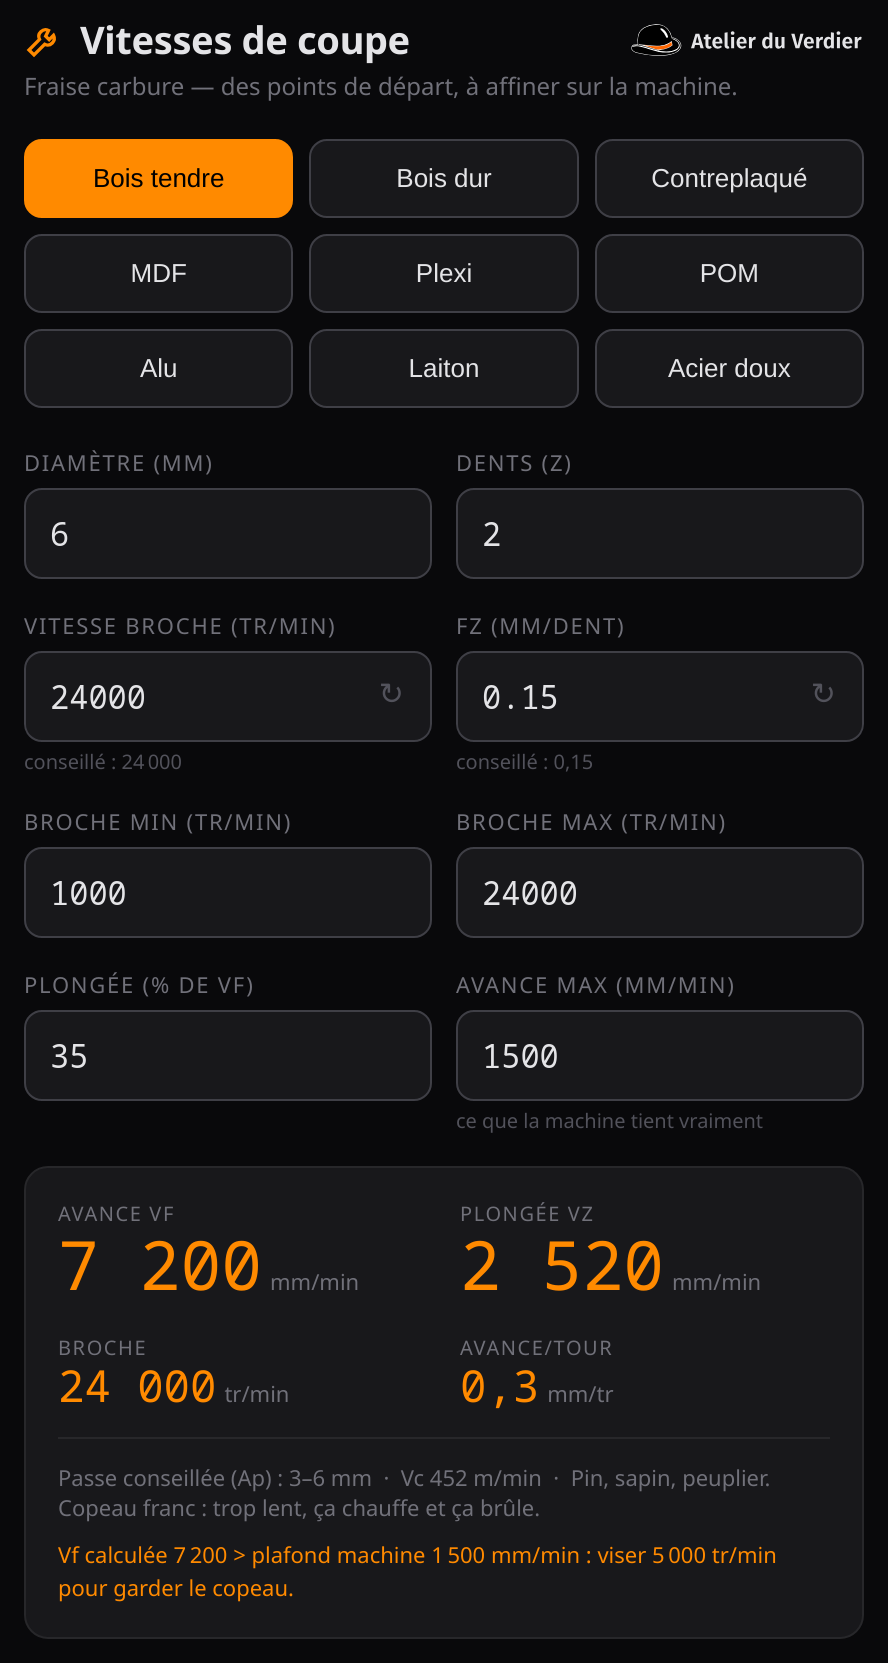
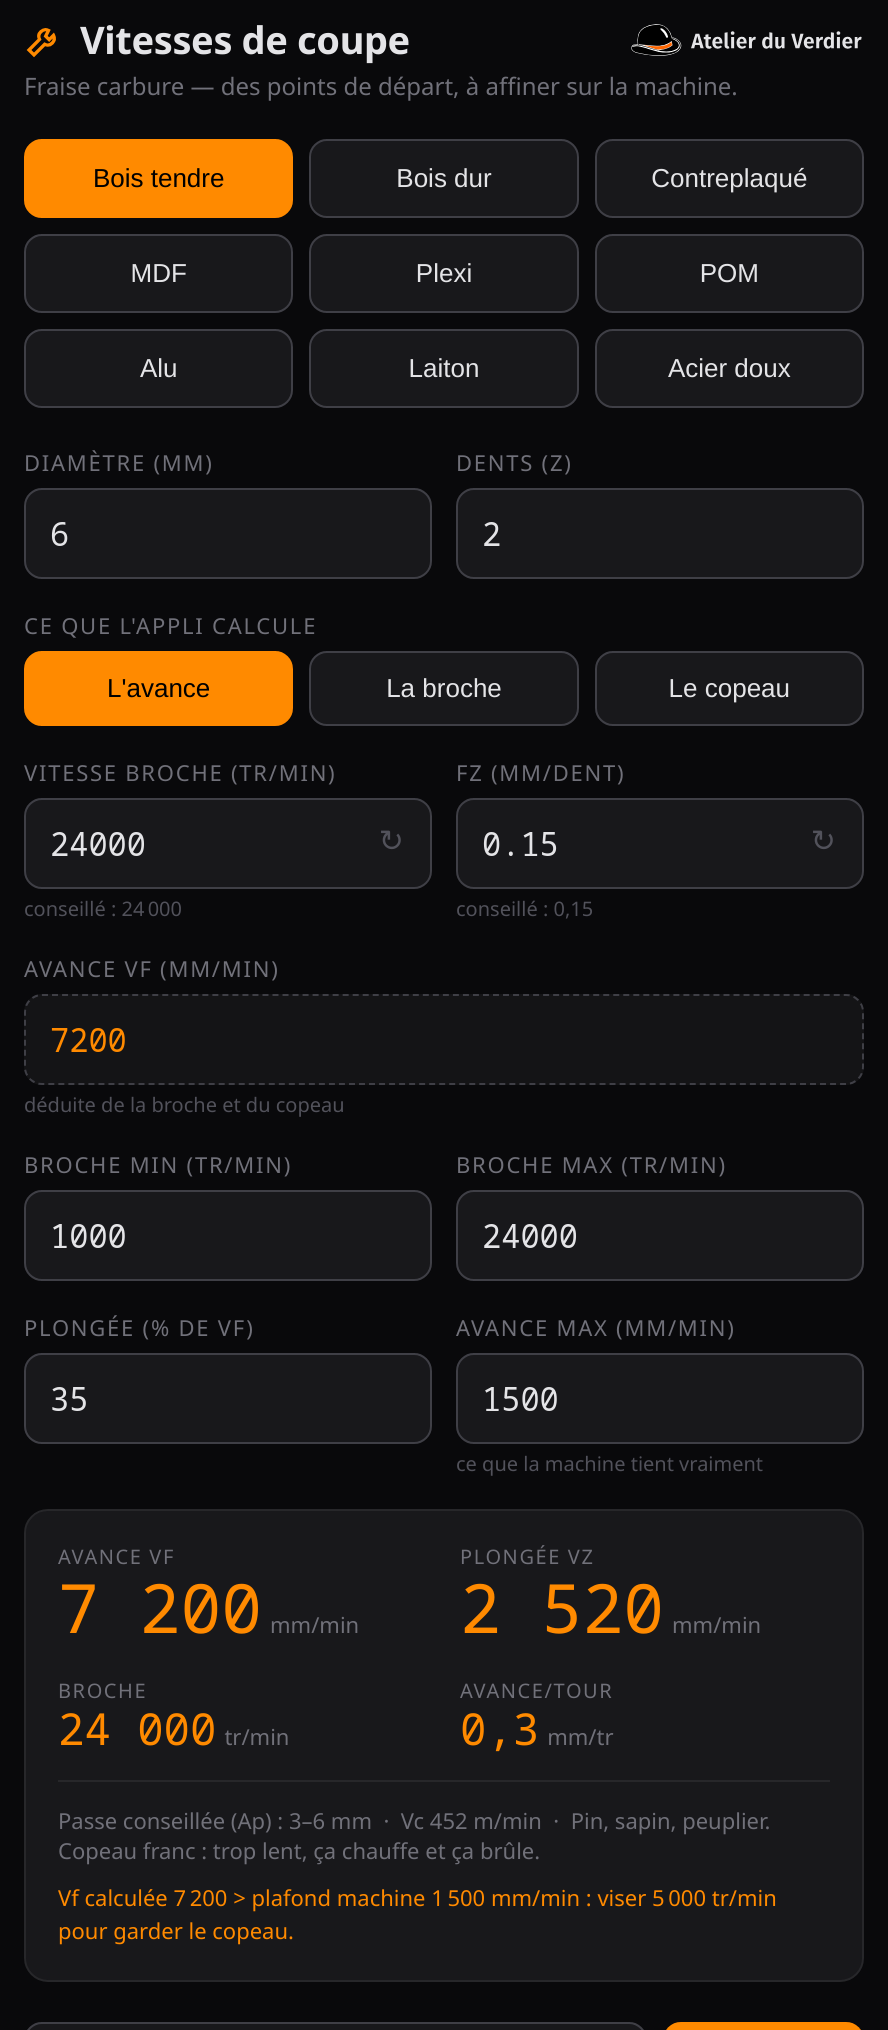
Trois sens de calcul : l'avance, la broche, ou le copeau
Vf = broche x fz x dents. Trois grandeurs, une equation : rien
n'obligeait a toujours deduire la meme. On choisit desormais laquelle
l'appli calcule ; ce champ passe en orange et n'est plus saisissable.

- l'avance  : broche + copeau -> avance    (le cas d'avant)
- la broche : avance + copeau -> broche    (« je veux avancer a 800 »)
- le copeau : avance + broche -> fz        (« mes reglages valent quoi ? »)

Le troisieme est un DIAGNOSTIC et repond a la question posee a l'etabli :
24 000 tr/min a 800 mm/min avec une 3 mm deux dents, c'est 21 % du copeau
utile — la fraise frotte. Verdict affiche en clair, vert quand c'est bon.

Basculer d'un sens a l'autre ne fait bouger aucun chiffre : le champ qui
devient saisissable reprend la valeur qu'il affichait en resultat.

Deux corrections trouvees au test : la broche deduite s'arrondit vers le
BAS (a l'entier superieur l'avance depassait d'un cheveu un plafond regle
pile a cette valeur), et l'alerte « hors limites broche » ne parle plus
que du bornage reel, pas du tour perdu a l'arrondi.

Cache porte a coupe-v6.

diff --git a/site/appli/coupe/index.html b/site/appli/coupe/index.html
@@ -20,7 +20,7 @@
 <style>
   /* Appli d'établi : UN SEUL thème, sombre — elle se lit à côté de la
      machine, souvent en plein soleil d'atelier, et le blanc éblouit. */
-  :root{ --bg:#09090b; --panel:#18181b; --panel2:#27272a; --line:#3f3f46; --txt:#e4e4e7; --dim:#71717a; --dim2:#52525b; --orange:#ff8a00; }
+  :root{ --bg:#09090b; --panel:#18181b; --panel2:#27272a; --line:#3f3f46; --txt:#e4e4e7; --dim:#71717a; --dim2:#52525b; --orange:#ff8a00; --vert:#4ade80; }
   *{box-sizing:border-box; -webkit-tap-highlight-color:transparent;}
   body{margin:0; background:var(--bg); color:var(--txt); font-family:-apple-system,BlinkMacSystemFont,"Segoe UI",Roboto,sans-serif; padding:env(safe-area-inset-top) 0 0;}
   .wrap{max-width:460px; margin:0 auto; padding:22px 16px 48px;}
@@ -37,6 +37,18 @@
   input{width:100%; background:var(--panel); border:1px solid var(--line); border-radius:9px; padding:11px 12px; color:var(--txt); font-size:16px; font-family:ui-monospace,Menlo,monospace;}
   input:focus{outline:none; border-color:var(--orange);}
   .grid2{display:grid; grid-template-columns:1fr 1fr; gap:12px; margin-bottom:16px;}
+  .pleine{margin-bottom:16px;}
+  /* Les trois sens de calcul. Meme grammaire que les matieres : le choix
+     actif est plein orange, on le voit d'un coup d'oeil a l'etabli. */
+  .modes{display:grid; grid-template-columns:1fr 1fr 1fr; gap:8px; margin:0 0 16px;}
+  .mode{padding:10px 2px; border-radius:9px; border:1px solid var(--line); background:var(--panel); color:var(--txt); font-size:13px; font-weight:500;}
+  .mode.on{background:var(--orange); border-color:var(--orange); color:#000;}
+  /* Le champ DEDUIT : ni saisissable, ni gris — c'est un resultat, il porte
+     donc la couleur des resultats. */
+  input.calcule{color:var(--orange); background:#141416; border-style:dashed; border-color:var(--line);}
+  .verdict{margin-top:10px; font-size:11px; line-height:1.5; color:var(--dim);}
+  .verdict b{color:var(--vert);}
+  .verdict.chaud b{color:var(--orange);}
   .mats{display:grid; grid-template-columns:1fr 1fr 1fr; gap:8px; margin-bottom:20px;}
   .mat{padding:11px 2px; border-radius:9px; border:1px solid var(--line); background:var(--panel); color:var(--txt); font-size:13px; font-weight:500;}
   .mat.on{background:var(--orange); border-color:var(--orange); color:#000;}
@@ -102,6 +114,12 @@
     <div><label class="lbl" for="Z">Dents (Z)</label><input id="Z" inputmode="decimal" value="2"></div>
   </div>
 
+  <!-- Broche, copeau et avance sont liés par UNE seule équation,
+       Vf = broche x fz x dents : on en fixe deux, la troisième se déduit.
+       D'où ces trois sens de calcul, plutôt qu'un seul impose. -->
+  <span class="lbl">Ce que l'appli calcule</span>
+  <div class="modes" id="modes"></div>
+
   <div class="grid2">
     <div>
       <label class="lbl" for="rpm">Vitesse broche (tr/min)</label>
@@ -113,6 +131,12 @@
       <div class="fieldwrap"><input id="fz" inputmode="decimal" value="0.15"><button class="reset" data-r="fz" aria-label="Revenir au fz conseillé">&#8635;</button></div>
       <span class="hint" id="hintFz"></span>
     </div>
+  </div>
+
+  <div class="pleine">
+    <label class="lbl" for="vf">Avance Vf (mm/min)</label>
+    <input id="vf" inputmode="decimal" value="7200">
+    <span class="hint" id="hintVf"></span>
   </div>
 
   <div class="grid2">
@@ -136,6 +160,7 @@
       <div class="ro"><div class="k">Avance/tour</div><div class="v"><span id="oFpr">0</span><span class="u">mm/tr</span></div></div>
     </div>
     <div class="foot" id="foot"></div>
+    <div class="verdict" id="verdict" style="display:none"></div>
     <div class="warn" id="warn" style="display:none"></div>
   </div>
 
@@ -210,6 +235,22 @@ var K_TOOLS="fs_tools", K_PREFS="fs_prefs";
 var PREFS_VERSION=2;
 var material="bois_tendre", tools=[];
 
+// --- Les trois sens de calcul -------------------------------------------
+// Vf = broche x fz x dents. Trois grandeurs, une equation : on en saisit
+// deux, la troisieme se deduit. `mode` dit LAQUELLE est deduite.
+//   "vf"  : broche + copeau -> avance        (le cas classique)
+//   "rpm" : avance voulue + copeau -> broche (« je veux avancer a 800 »)
+//   "fz"  : avance + broche -> copeau        (« mes reglages, ils valent quoi ? »)
+var MODES = [
+  {cle:"vf",  label:"L'avance",  champ:"vf"},
+  {cle:"rpm", label:"La broche", champ:"rpm"},
+  {cle:"fz",  label:"Le copeau", champ:"fz"}
+];
+var mode="vf";
+// Les valeurs RESOLUES du dernier calcul : c'est elles qu'on enregistre et
+// qu'on exporte, jamais le contenu brut des champs, dont l'un est deduit.
+var ETAT={d:6,z:2,rpm:24000,fz:0.15,vf:7200,vz:2520,vc:0};
+
 function $(id){return document.getElementById(id);}
 function num(s){var v=parseFloat(String(s).replace(",",".")); return isFinite(v)?v:0;}
 function clamp(v,lo,hi){return Math.min(Math.max(v,lo),hi);}
@@ -252,31 +293,90 @@ function buildMats(){
     m.appendChild(b);
   });
 }
-function applyMat(k){
-  material=k;
+// Poser les valeurs conseillees de la matiere. On ne touche PAS au champ
+// deduit : ce serait ecraser un resultat par une consigne. En mode
+// « copeau », l'avance visee est le seul reglage libre avec la broche.
+function poserConseils(){
   var d=num($("D").value), lo=num($("rpmMin").value), hi=num($("rpmMax").value);
-  $("fz").value=recoFz(k,d);
-  $("rpm").value=recoRpm(k,d,lo,hi);
-  buildMats(); compute();
-}
-function onDiam(){
-  var d=num($("D").value), lo=num($("rpmMin").value), hi=num($("rpmMax").value);
-  $("fz").value=recoFz(material,d);
-  $("rpm").value=recoRpm(material,d,lo,hi);
+  if(mode!=="fz") $("fz").value=recoFz(material,d);
+  if(mode!=="rpm") $("rpm").value=recoRpm(material,d,lo,hi);
   compute();
+}
+function applyMat(k){ material=k; buildMats(); poserConseils(); }
+function onDiam(){ poserConseils(); }
+
+// --- les trois sens de calcul ---
+function buildModes(){
+  var m=$("modes"); m.innerHTML="";
+  MODES.forEach(function(o){
+    var b=document.createElement("button");
+    b.className="mode"+(o.cle===mode?" on":""); b.textContent=o.label;
+    b.onclick=function(){ setMode(o.cle); };
+    m.appendChild(b);
+  });
+}
+function setMode(k){
+  // On bascule SANS que rien ne bouge a l'ecran : le champ qui devient
+  // saisissable prend la valeur qu'il affichait comme resultat. Sinon
+  // changer de sens de calcul ferait sauter les chiffres sans raison.
+  $("rpm").value=Math.round(ETAT.rpm);
+  $("fz").value=rnd(ETAT.fz,4);
+  $("vf").value=rnd(ETAT.vf);
+  mode=k;
+  buildModes(); marquerChampCalcule(); compute();
+}
+function marquerChampCalcule(){
+  MODES.forEach(function(o){
+    var e=$(o.champ), calcule=(o.cle===mode);
+    e.readOnly=calcule;
+    e.classList.toggle("calcule", calcule);
+    // Le bouton « revenir au conseille » n'a pas de sens sur un resultat.
+    var r=document.querySelector('.reset[data-r="'+o.champ+'"]');
+    if(r) r.style.display=calcule?"none":"";
+  });
 }
 
 // --- calcul ---
 function compute(){
-  var d=num($("D").value), z=num($("Z").value), fz=num($("fz").value);
+  var d=num($("D").value), z=num($("Z").value);
   var lo=num($("rpmMin").value), hi=num($("rpmMax").value);
-  var rpmE=Math.round(num($("rpm").value));
-  var rpm=clamp(rpmE,lo,hi);
+  var vfMax=num($("vfMax").value);
+  var fz, rpm, vf, rpmE=null, vfDemande=null;
+
+  if(mode==="rpm"){
+    // Avance voulue + copeau -> broche.
+    fz=num($("fz").value); vfDemande=num($("vf").value);
+    var rpmBrut=(fz*z>0)?(vfDemande/(fz*z)):0;
+    // Arrondi vers le BAS : a l'entier superieur, l'avance obtenue depasse
+    // d'un cheveu celle demandee — assez pour franchir un plafond regle
+    // pile a cette valeur et declencher une alerte pour rien.
+    var rpmIdeal=Math.floor(rpmBrut);
+    rpm=clamp(rpmIdeal,lo,hi);
+    vf=rpm*fz*z;                       // l'avance REELLE, apres bornage
+    $("rpm").value=rpm;
+    // On n'alerte QUE si les bornes ont mordu — pas pour le tour perdu a
+    // l'arrondi, qui n'a rien a voir avec les limites de la broche.
+    if(rpmIdeal!==rpm) rpmE=rpmIdeal;
+  } else if(mode==="fz"){
+    // Avance + broche -> copeau. Le mode « mes reglages valent quoi ? »
+    rpmE=Math.round(num($("rpm").value)); rpm=clamp(rpmE,lo,hi);
+    if(rpmE===rpm) rpmE=null;
+    vf=num($("vf").value);
+    fz=(rpm*z>0)?(vf/(rpm*z)):0;
+    $("fz").value=rnd(fz,4);
+  } else {
+    // Broche + copeau -> avance. Le cas classique.
+    rpmE=Math.round(num($("rpm").value)); rpm=clamp(rpmE,lo,hi);
+    if(rpmE===rpm) rpmE=null;
+    fz=num($("fz").value);
+    vf=rpm*fz*z;
+    $("vf").value=rnd(vf);
+  }
+
   var vc=(Math.PI*d*rpm)/1000;
-  var vf=rpm*fz*z;
   var vz=vf*(num($("plunge").value)/100);
   var fpr=fz*z;
-  var vfMax=num($("vfMax").value);
+  ETAT={d:d,z:z,rpm:rpm,fz:fz,vf:vf,vz:vz,vc:vc};
   $("oVf").textContent=fr(rnd(vf));
   $("oVz").textContent=fr(rnd(vz));
   $("oRpm").textContent=fr(rpm);
@@ -284,7 +384,11 @@ function compute(){
   $("foot").innerHTML="Passe conseillée (Ap) : "+frd(MAT[material].apLow*d,1)+"&ndash;"+frd(MAT[material].apHigh*d,1)+" mm &nbsp;&middot;&nbsp; Vc "+rnd(vc,0)+" m/min &nbsp;&middot;&nbsp; "+MAT[material].note;
 
   var alertes=[];
-  if(rpmE!==rpm) alertes.push(fr(rpmE)+" tr/min hors limites broche, ramené à "+fr(rpm)+".");
+  if(rpmE!==null){
+    alertes.push(mode==="rpm"
+      ? ("Il faudrait "+fr(rpmE)+" tr/min pour avancer à "+fr(rnd(vfDemande))+" mm/min avec ce copeau — hors des limites de la broche. Ramenée à "+fr(rpm)+" tr/min, soit "+fr(rnd(vf))+" mm/min réels.")
+      : (fr(rpmE)+" tr/min hors limites broche, ramené à "+fr(rpm)+"."));
+  }
   // La broche mini peut FORCER la vitesse de coupe au-delà de la cible :
   // acier ou laiton en petit diamètre. Le calcul clignote plutôt que de
   // laisser croire que tout va bien — c'est l'arête qui paie, sinon.
@@ -294,7 +398,10 @@ function compute(){
   // Une avance que la machine ne tient pas ne fait pas gagner de temps :
   // le copeau réel s'amincit et la fraise frotte. On propose la broche qui
   // garde la charge par dent SOUS le plafond.
-  if(vfMax>0 && vf>vfMax && fz>0 && z>0){
+  // Le « +0.5 » n'est pas une coquetterie : sans lui, une avance calculée à
+  // 1 500,05 mm/min contre un plafond réglé à 1 500 alerte pour un
+  // vingtième de millimètre par minute.
+  if(vfMax>0 && vf>vfMax+0.5 && fz>0 && z>0){
     var rSugg=Math.floor(vfMax/(fz*z));
     if(rSugg>=lo){
       alertes.push("Vf calculée "+fr(rnd(vf))+" &gt; plafond machine "+fr(vfMax)+" mm/min : viser "+fr(clamp(rSugg,lo,hi))+" tr/min pour garder le copeau.");
@@ -318,21 +425,46 @@ function compute(){
       }
     }
   }
+  // Le VERDICT sur le copeau : ce que valent les reglages, compare au fz
+  // conseille pour cette matiere et ce diametre. Affiche en permanence en
+  // mode « copeau » — c'est tout l'objet de ce mode — et seulement quand
+  // ca sort des clous dans les autres, pour ne pas bavarder.
+  var conseille=recoFz(material,d), ratio=conseille>0?(fz/conseille):0;
+  var v=$("verdict"), texte=null, chaud=true;
+  if(ratio>0){
+    var pc=Math.round(ratio*100)+" % du conseillé";
+    if(ratio<0.5)       texte="<b>Copeau très fin</b> ("+pc+") : la fraise frotte plus qu'elle ne coupe. C'est ce qui chauffe, brûle le bois et use l'arête.";
+    else if(ratio<0.8)  texte="<b>Copeau fin</b> ("+pc+") : ça coupe, mais on chauffe plus que nécessaire.";
+    else if(ratio<=1.3){ texte="<b>Bon copeau</b> ("+pc+")."; chaud=false; }
+    else                texte="<b>Copeau épais</b> ("+pc+") : surveiller l'effort, la casse et l'état de l'arête.";
+  }
+  if(texte && (mode==="fz" || ratio<0.8 || ratio>1.3)){
+    v.style.display="block"; v.className="verdict"+(chaud?" chaud":""); v.innerHTML=texte;
+  } else v.style.display="none";
+
   var w=$("warn");
   if(alertes.length){ w.style.display="block"; w.innerHTML=alertes.join("<br>"); }
   else w.style.display="none";
-  // rappels sous les champs
-  $("hintRpm").textContent="conseillé : "+fr(recoRpm(material,d,lo,hi));
-  $("hintFz").textContent="conseillé : "+frd(recoFz(material,d),3);
+  // Rappels sous les champs. Un champ DEDUIT n'a pas de « conseillé » —
+  // c'est un resultat ; on y met plutot ce dont il decoule.
+  $("hintRpm").textContent = (mode==="rpm")
+    ? "déduit de l'avance et du copeau"
+    : "conseillé : "+fr(recoRpm(material,d,lo,hi));
+  $("hintFz").textContent = (mode==="fz")
+    ? "déduit de l'avance et de la broche — conseillé : "+frd(conseille,3)
+    : "conseillé : "+frd(conseille,3);
+  $("hintVf").textContent = (mode==="vf")
+    ? "déduite de la broche et du copeau"
+    : "l'avance que vous visez";
 }
 
 function currentTool(){
-  var d=num($("D").value), z=num($("Z").value), fz=num($("fz").value);
-  var lo=num($("rpmMin").value), hi=num($("rpmMax").value);
-  var rpm=clamp(Math.round(num($("rpm").value)),lo,hi);
-  var vf=rpm*fz*z, vz=vf*(num($("plunge").value)/100);
-  var nm=$("tname").value.trim() || (MAT[material].label+" "+d+"mm Z"+z);
-  return {name:nm, material:material, matLabel:MAT[material].label, D:d, Z:z, fz:fz, rpm:rpm, vf:rnd(vf), plunge:rnd(vz)};
+  // Les valeurs RESOLUES, jamais les champs bruts : selon le mode, l'un
+  // d'eux est un resultat et pourrait etre en cours de saisie.
+  var nm=$("tname").value.trim() || (MAT[material].label+" "+ETAT.d+"mm Z"+ETAT.z);
+  return {name:nm, material:material, matLabel:MAT[material].label,
+          D:ETAT.d, Z:ETAT.z, fz:rnd(ETAT.fz,4), rpm:Math.round(ETAT.rpm),
+          vf:rnd(ETAT.vf), plunge:rnd(ETAT.vz)};
 }
 
 // --- bibliothèque ---
@@ -356,7 +488,12 @@ function renderLib(){
 }
 function loadTool(t){
   material=(t.material in MAT)?t.material:"bois_tendre";
-  $("D").value=t.D; $("Z").value=t.Z; $("fz").value=t.fz; $("rpm").value=t.rpm; $("tname").value=t.name;
+  $("D").value=t.D; $("Z").value=t.Z; $("tname").value=t.name;
+  // Les trois grandeurs sont reposees telles qu'enregistrees : quel que
+  // soit le sens de calcul courant, le triplet est coherent, donc le champ
+  // deduit retombera sur sa valeur.
+  $("fz").value=t.fz; $("rpm").value=t.rpm;
+  if(t.vf) $("vf").value=t.vf;
   buildMats(); compute();
   window.scrollTo({top:0,behavior:"smooth"});
 }
@@ -414,7 +551,9 @@ function telecharger(nomFichier, contenu){
 // --- démarrage ---
 loadStore();
 buildMats();
-["D","Z","rpm","fz","rpmMin","rpmMax","plunge","vfMax","tname"].forEach(function(id){
+buildModes();
+marquerChampCalcule();
+["D","Z","rpm","fz","vf","rpmMin","rpmMax","plunge","vfMax","tname"].forEach(function(id){
   $(id).addEventListener("input", function(){
     if(id==="D"){ onDiam(); }
     else { compute(); }

diff --git a/site/contenu/vitesses-coupe.html b/site/contenu/vitesses-coupe.html
@@ -103,6 +103,53 @@
   </div>
 </section>
 
+<section>
+  <div class="wrap">
+    <div class="sec-tag">Les trois sens</div>
+    <h2>Une équation, trois façons de la lire</h2>
+    <p class="sec-lede">
+      Broche, copeau et avance sont liés par une seule égalité —
+      <b>Vf&nbsp;=&nbsp;broche&nbsp;×&nbsp;fz&nbsp;×&nbsp;dents</b>. Il suffit donc d'en
+      fixer deux pour obtenir la troisième, et il n'y a aucune raison d'imposer
+      toujours le même sens. L'appli laisse choisir lequel des trois nombres
+      elle déduit ; celui-là s'affiche en orange, on ne peut pas le saisir.
+    </p>
+
+    <div class="twrap">
+      <table>
+        <thead><tr><th>On calcule</th><th>On saisit</th><th>La question posée</th></tr></thead>
+        <tbody>
+          <tr><td><b>L'avance</b></td><td>broche + copeau</td>
+              <td>« Ma broche tourne à 24&nbsp;000, à quelle vitesse avancer ? » — le cas classique.</td></tr>
+          <tr><td><b>La broche</b></td><td>avance + copeau</td>
+              <td>« Je veux avancer à 800&nbsp;mm/min sans abîmer le copeau, à combien régler la broche ? »</td></tr>
+          <tr><td><b>Le copeau</b></td><td>avance + broche</td>
+              <td>« Voilà ce que j'utilise aujourd'hui — est-ce que ça vaut quelque chose ? »</td></tr>
+        </tbody>
+      </table>
+    </div>
+
+    <div class="callout tip">
+      <span class="ci">Le troisième est un diagnostic</span>
+      <p>
+        Celui-là ne sert pas à préparer un travail, mais à <b>juger un réglage
+        existant</b>. On tape ce qu'on a dans le fichier ou sur le pupitre, et
+        l'appli dit ce que ça donne comme copeau, en pourcentage du conseillé :
+        24&nbsp;000&nbsp;tr/min à 800&nbsp;mm/min avec une fraise de 3&nbsp;mm à deux
+        dents, c'est <b>21&nbsp;% du copeau utile</b> — la fraise frotte au lieu de
+        couper, et c'est exactement ce qui brûle le bois. La même avance à
+        5&nbsp;000&nbsp;tr/min donne 101&nbsp;%.
+      </p>
+    </div>
+
+    <p class="muted">
+      Basculer d'un sens à l'autre ne fait bouger aucun chiffre : le nombre qui
+      devient saisissable reprend la valeur qu'il affichait comme résultat. On
+      change de question, pas de réglage.
+    </p>
+  </div>
+</section>
+
 <section id="matieres">
   <div class="wrap">
     <div class="sec-tag">Les valeurs</div>

diff --git a/site/appli/coupe/sw.js b/site/appli/coupe/sw.js
@@ -3,7 +3,7 @@
 // (coupe-v2 -> coupe-v3 ...) — sans quoi les visiteurs gardent l'ancienne
 // version, servie par leur propre cache. Le navigateur recompare ce fichier
 // à chaque visite : c'est lui qui déclenche le renouvellement.
-const CACHE = "coupe-v5";
+const CACHE = "coupe-v6";
 const ASSETS = [
   "./",
   "./index.html",

diff --git a/site/outils/capturer_coupe.py b/site/outils/capturer_coupe.py
@@ -34,7 +34,7 @@ LARGEUR = 452        # un peu plus que le .wrap (460 - marges), sans vide latér
 # Jusqu'au bas de la carte des résultats, ALERTE COMPRISE : avec les réglages
 # par défaut (Ø6, plafond 1 500) l'appli avertit que l'avance dépasse ce que
 # la machine tient — c'est le garde-fou qui la distingue, il doit se voir.
-HAUTEUR = 850
+HAUTEUR = 1030
 
 
 def _rogner_marges(image):
